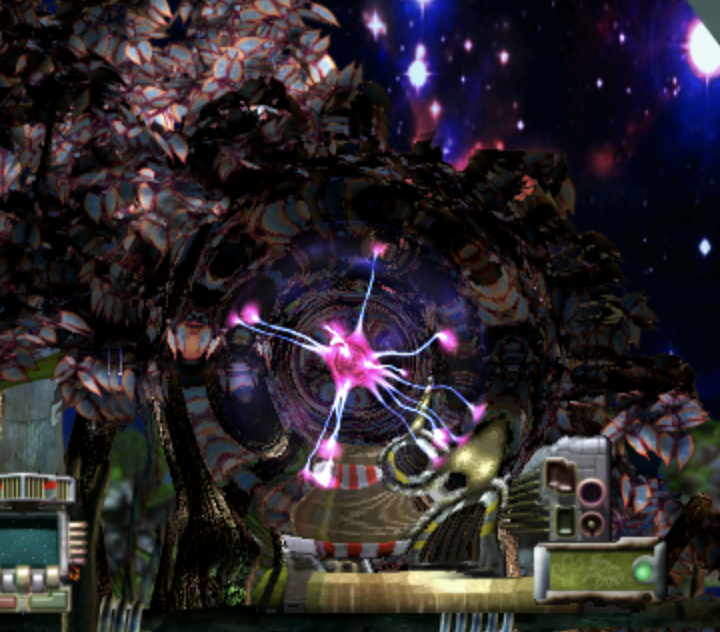
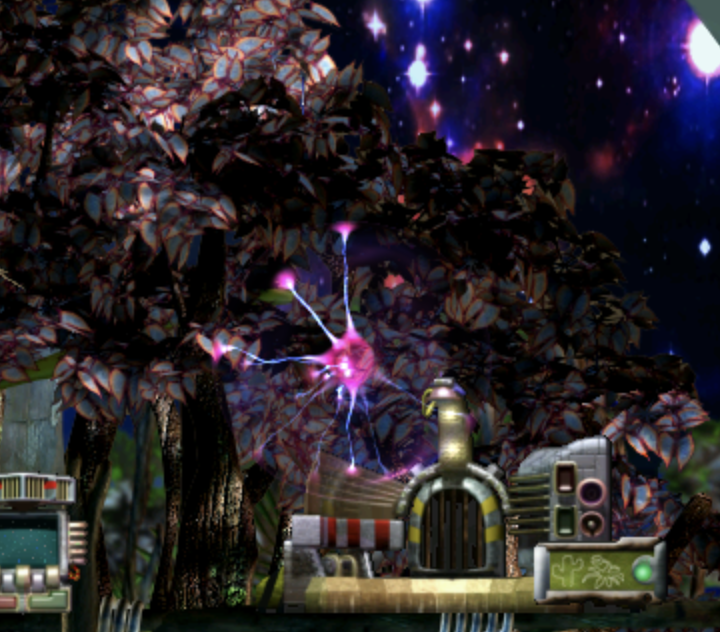
Add 60fps animation GIFs; fix plasma preview (was overlapping water droplet)
Recorded solo 60fps (motion-interpolated) preview GIFs for the animated agents
(fireball, glowing crystal, plasma orb, water droplet) and use them as the hero
image in each agent README + the front gallery. Retake the plasma-orb still,
which had a stray water droplet in frame.

diff --git a/README.md b/README.md
@@ -9,9 +9,9 @@ whole‑frame post‑processes.
 
 | Magnifier | Fireball | Glowing Crystal |
 |:---:|:---:|:---:|
-| ![Magnifier](agents/magnifier/preview.png) | ![Fireball](agents/fireball/preview.png) | ![Glowing Crystal](agents/glowing-crystal/preview.png) |
+| ![Magnifier](agents/magnifier/preview.png) | ![Fireball](agents/fireball/preview.gif) | ![Glowing Crystal](agents/glowing-crystal/preview.gif) |
 | **Plasma Orb** | **Water Droplet** | |
-| ![Plasma Orb](agents/plasma-orb/preview.png) | ![Water Droplet](agents/water-droplet/preview.png) | |
+| ![Plasma Orb](agents/plasma-orb/preview.gif) | ![Water Droplet](agents/water-droplet/preview.gif) | |
 
 ## Agents (pick‑up toys)
 

diff --git a/agents/plasma-orb/README.md b/agents/plasma-orb/README.md
@@ -1,6 +1,6 @@
 # Plasma Orb
 
-![Plasma Orb](preview.png)
+![Plasma Orb](preview.gif)
 
 A **volumetric energy‑tendril plasma** — ray‑marched electric filaments inside a reflective sphere that swirls the background (a port of a public‑domain Star‑Nest‑style Shadertoy). Scene‑read, composited additively.
 

diff --git a/agents/glowing-crystal/README.md b/agents/glowing-crystal/README.md
@@ -1,6 +1,6 @@
 # Glowing Crystal
 
-![Glowing Crystal](preview.png)
+![Glowing Crystal](preview.gif)
 
 A **refractive glassy gem** that bends the scene behind it and brightens + pulses it with a coloured inner glow. Scene‑read.
 

diff --git a/agents/water-droplet/README.md b/agents/water-droplet/README.md
@@ -1,6 +1,6 @@
 # Water Droplet
 
-![Water Droplet](preview.png)
+![Water Droplet](preview.gif)
 
 A **water droplet** that sends concentric ripples across the world beneath it, refracting the scene. Scene‑read.
 

diff --git a/agents/fireball/README.md b/agents/fireball/README.md
@@ -1,6 +1,6 @@
 # Fireball
 
-![Fireball](preview.png)
+![Fireball](preview.gif)
 
 A procedural **licking flame** (iq simplex‑noise fbm) that casts a warm emissive glow onto the pixels around it. Scene‑read.
 
